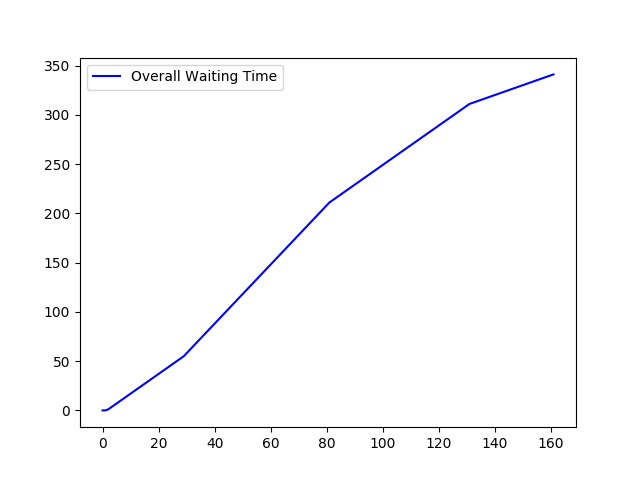
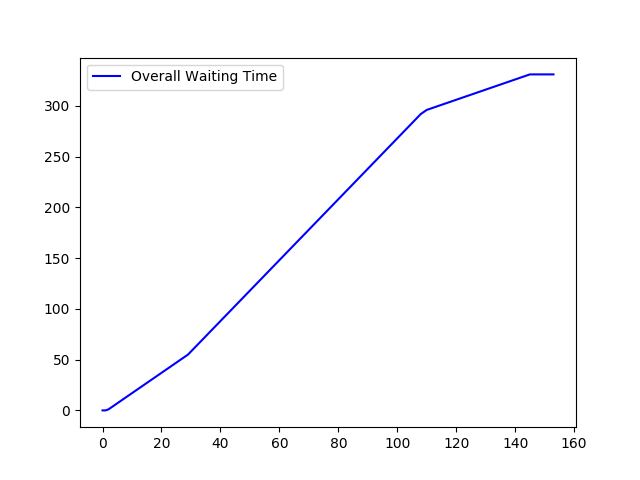
fix

diff --git a/sche.py b/sche.py
@@ -218,18 +218,16 @@ print(sche)
 print(task_list)
 
 
-waiting_time_x, waiting_time_y = cal_overall_waiting_time(task_list, sche)
-
+waiting_time_x, waiting_time_y = cal_overall_waiting_time(
+    task_list, sched_tasks)
 plt.figure(0)
 plt.plot(waiting_time_x, waiting_time_y, 'b', label='Overall Waiting Time')
 plt.legend()
 plt.savefig('b.png')
 
 
-
 tasks_to_finish_x, tasks_to_finish_y = cal_overall_tasks_to_finish(
-    task_list, sche)
-
+    task_list, sched_tasks)
 plt.figure(1)
 plt.plot(tasks_to_finish_x, tasks_to_finish_y, 'b', label='Tasks to Finish')
 plt.legend()
